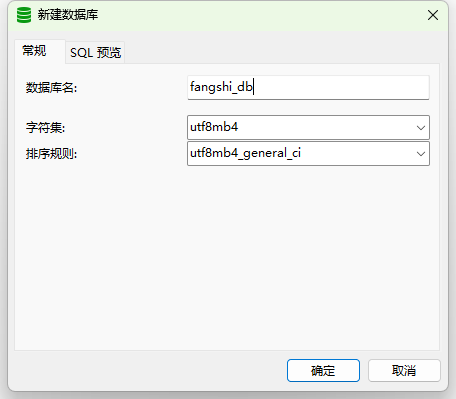
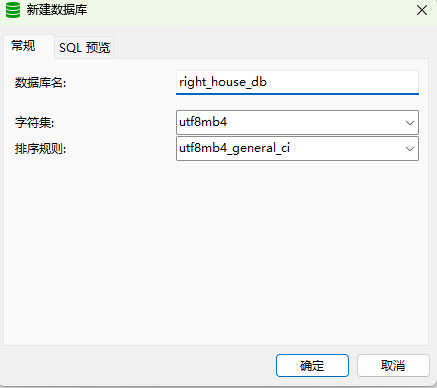
修改细节问题

Changed region(s): [[0.0, 0.0, 1.0, 1.0], [0.3867, 0.1856, 0.9519, 0.433]]

diff --git a/docs/.vitepress/config.js b/docs/.vitepress/config.js
@@ -60,7 +60,7 @@ module.exports = {
               link: '/overview/needs/',
             },
             {
-              text: '二期规划',
+              text: '后续规划',
               link: '/overview/expectation/',
             }
           ],

diff --git a/docs/arrange/build/index.md b/docs/arrange/build/index.md
@@ -3,25 +3,19 @@ title: 打包部署
 ---
 部署前请确保已经完整阅读过[配置](/develop/options/)模块，并且已经将相关配置更改到生产环境地址。
 ## 服务端部署
-框架内置了 egg-cluster 来启动 Master 进程，Master 有足够的稳定性，不再需要使用 pm2 等进程守护模块。  
-同时，框架也提供了 egg-scripts 来支持线上环境的运行和停止。  
-首先，我们需要把 egg-scripts 模块作为 dependencies 引入：  
-
-```shell
-npm i egg-scripts --save
-```
-添加 npm scripts 到 package.json：
-
-```json
-{
-  "scripts": {
-    "start": "egg-scripts start --daemon",
-    "stop": "egg-scripts stop"
+首先在服务端代码FS-server/app/router.js,打开注释掉的app.model.sync();方法，即可自动创建数据表。（数据库是需要手动创建的）
+```javascript
+module.exports = async app => {
+  if (app.config.env === 'local') {
+    // 初始化数据库 { force: true }重置
+    app.model.sync();
   }
-}
+};
 ```
-这样我们就可以通过 npm start 和 npm stop 命令启动或停止应用。
-根据/fs-server/config.default.js的配置
+框架内置了 egg-cluster 来启动 Master 进程，Master 有足够的稳定性，不再需要使用 pm2 等进程守护模块。  
+同时，框架也安装了 egg-scripts 来支持线上环境的运行和停止。  
+这样我们就可以通过 npm start 和 npm stop 命令启动或停止应用。  
+根据RH-server/config.default.js的配置
 ```javascript
 config.cluster = {
   listen: {
@@ -60,7 +54,7 @@ exports.alinode = {
 ```shell
 npm run build
 ```
-将dist上传至服务器路径下，路径你可以自定义，本次我们放在/opt/fs-admin目录下。  
+将dist上传至服务器路径下，路径你可以自定义，本次我们放在/opt/RH-admin目录下。  
 修改服务器配置,通过端口9527访问。
 
 ```shell
@@ -72,7 +66,7 @@ vi /etc/nginx/sites-available/default
 ```
 server {
   listen 9527;
-  root /opt/fs-admin;
+  root /opt/RH-admin;
   index index.html index.htm index.nginx-debian.html;
   location / {
     try_files $uri $uri/ /index.html;

diff --git a/docs/overview/needs/index.md b/docs/overview/needs/index.md
@@ -4,12 +4,12 @@ title: 需要准备的
 ## 服务器
 一台有外网ip的服务器。
 ## 域名
-购买一个域名，然后解析两个二级域名，一个用于服务端访问，一个用于后台管理系统访问。
+购买一个域名。获取ssl证书支持https。然后解析两个二级域名，一个用于服务端访问，一个用于后台管理系统访问。
 ## 微信小程序id
 需要注册2个微信小程序id（已经通过微信认证），用于房东小程序和租客小程序。需要进行企业认证，也就是说你要有公司资质才可以。
 ## uni-app的appid
 uni-app比较随意，直接注册账户即可获取。
-## 阿里云短信服务
+## 阿里云短信服务（非必须）
 购买阿里云短信服务，注册短信SignName，注册需要的短信模板，获取阿里云accessKey，用于验证码发送、交租提醒、维修提醒、入住提醒等功能。详情参见[服务端配置](/develop/options/)。
 ## 开发工具
 [vscode](https://code.visualstudio.com/)、[微信开发者工具](https://open.weixin.qq.com/)、[HbuilderX](https://www.dcloud.io/hbuilderx.html)

diff --git a/docs/overview/technologyStack/front.md b/docs/overview/technologyStack/front.md
@@ -27,8 +27,8 @@ uniapp官方ui框架和物料市场提供的ui组件都存在几个问题：
 
 1、设计不够美观，且难以修改。  
 2、样式不统一，整个应用像是一个缝合怪。  
-3、使用逻辑混乱，例如在数据双向绑定方面。
-4、功能不齐全，无法满足全部开发需求。
+3、使用逻辑混乱，例如在数据双向绑定方面。  
+4、功能不齐全，无法满足全部开发需求。  
 5、代码健壮性很差，使用后控制台无端一堆warning。  
 
 uview很好的解决了以上问题，也是uniapp社区开发者都很喜欢他的原因。uview也存在他的问题，由于样式隔离，当你想要修改样式的时候就会变得很麻烦，你必须在css选择器的前面加上::deep，才能修改。例如你要给按钮加上一个上间距：

diff --git a/docs/overview/expectation/index.md b/docs/overview/expectation/index.md
@@ -1,9 +1,9 @@
 ---
-title: 二期规划
+title: 后续规划
 ---
 
 ## 多平台适配
-发挥uni-app最大能力，适配全平台（iOS、Android、Web（响应式）、以及各种小程序（支付宝/百度/头条/飞书/QQ/快手/钉钉/淘宝）），满足更广阔的需求。
+发挥uni-app最大能力，首先完成微信和支付宝小程序的适配，后续适配全平台（iOS、Android、Web、以及其他各种小程序（百度/头条/飞书/QQ/快手/钉钉/淘宝）），满足更广阔的需求。
 ## 支付接入
 接入支付宝、微信支付能力，实现：在线交租、在线催收、自动交租等功能。
 ## 运营功能

diff --git a/docs/overview/files/index.md b/docs/overview/files/index.md
@@ -2,10 +2,10 @@
 title: 文件目录
 ---
 ## 服务端
-根目录：/FS-server
+根目录：/RH-server
 
 ```bash
-/FS-server
+/RH-server
 ├── package.json
 ├── app
 │   ├── controller
@@ -24,12 +24,12 @@ title: 文件目录
 为了规范目录，所有的路由分模块存放在routerModules文件夹内
 
 ## 后台管理系统
-根目录：/FS-admin
+根目录：/RH-admin
 
 ## 租客端小程序
-根目录：/FS-tenant  
+根目录：/RH-tenant  
 使用分包加载，具体目录参见pages.json
 
 ## 房东端小程序
-根目录：/FS-landlord  
+根目录：/RH-landlord  
 使用分包加载，具体目录参见pages.json

diff --git a/docs/arrange/environment/index.md b/docs/arrange/environment/index.md
@@ -120,17 +120,9 @@ mysql> exit
 systemctl restart mysql
 ```
 现在Windows下可以使用Navicat图形化工具远程连接Ubuntu下的MySQL数据库  
-mysql安装完成后新建一个数据库，数据库名为fangshi_db。
+mysql安装完成后新建一个数据库，数据库名为right_house_db。
 ![新建数据库](/mysql.png)  
-在服务端代码FS-server/app/router.js,打开注释掉的app.model.sync();方法，即可自动创建数据表。
-```javascript
-module.exports = async app => {
-  if (app.config.env === 'local') {
-    // 初始化数据库 { force: true }重置
-    app.model.sync();
-  }
-};
-```
+
 
 ## 安装Redis
 

diff --git a/docs/develop/environment/index.md b/docs/develop/environment/index.md
@@ -13,7 +13,7 @@ title: 开发环境
 [推荐一个博主的安装教程](https://blog.csdn.net/Zhangguohao666/article/details/105314085)  
 
 
-mysql安装完成后新建一个数据库，数据库名为fangshi_db。
+mysql安装完成后新建一个数据库，数据库名为right_house_db。
 ![新建数据库](/mysql.png)  
 在服务端代码FS-server/app/router.js,打开注释掉的app.model.sync();方法，即可自动创建数据表。
 ```javascript

diff --git a/docs/develop/options/index.md b/docs/develop/options/index.md
@@ -2,7 +2,7 @@
 title: 配置
 ---
 ## 服务端配置
-#### 打开/FS-server/config/config.default.js文件
+#### 打开/RH-server/config/config.default.js文件
 必须的配置：房东端小程序配置、租客端小程序配置、oss配置、数据库配置、redis配置、jwt配置一个自定义字符串即可。  
 可选的配置：短信服务配置及阿里云短信通知配置。
 ## 后台管理系统配置

diff --git a/docs/arrange/databaseBackup/index.md b/docs/arrange/databaseBackup/index.md
@@ -34,7 +34,7 @@ DB_PASS="XXXXXX"
 #数据库地址
 DB_HOST="xxx.xxx.xxx.xxx"
 #要备份的数据库名
-DB_NAME="fangshi_db"
+DB_NAME="right_house_db"
 #日期
 DATE=`date +%F`
 #文件保存的路径
